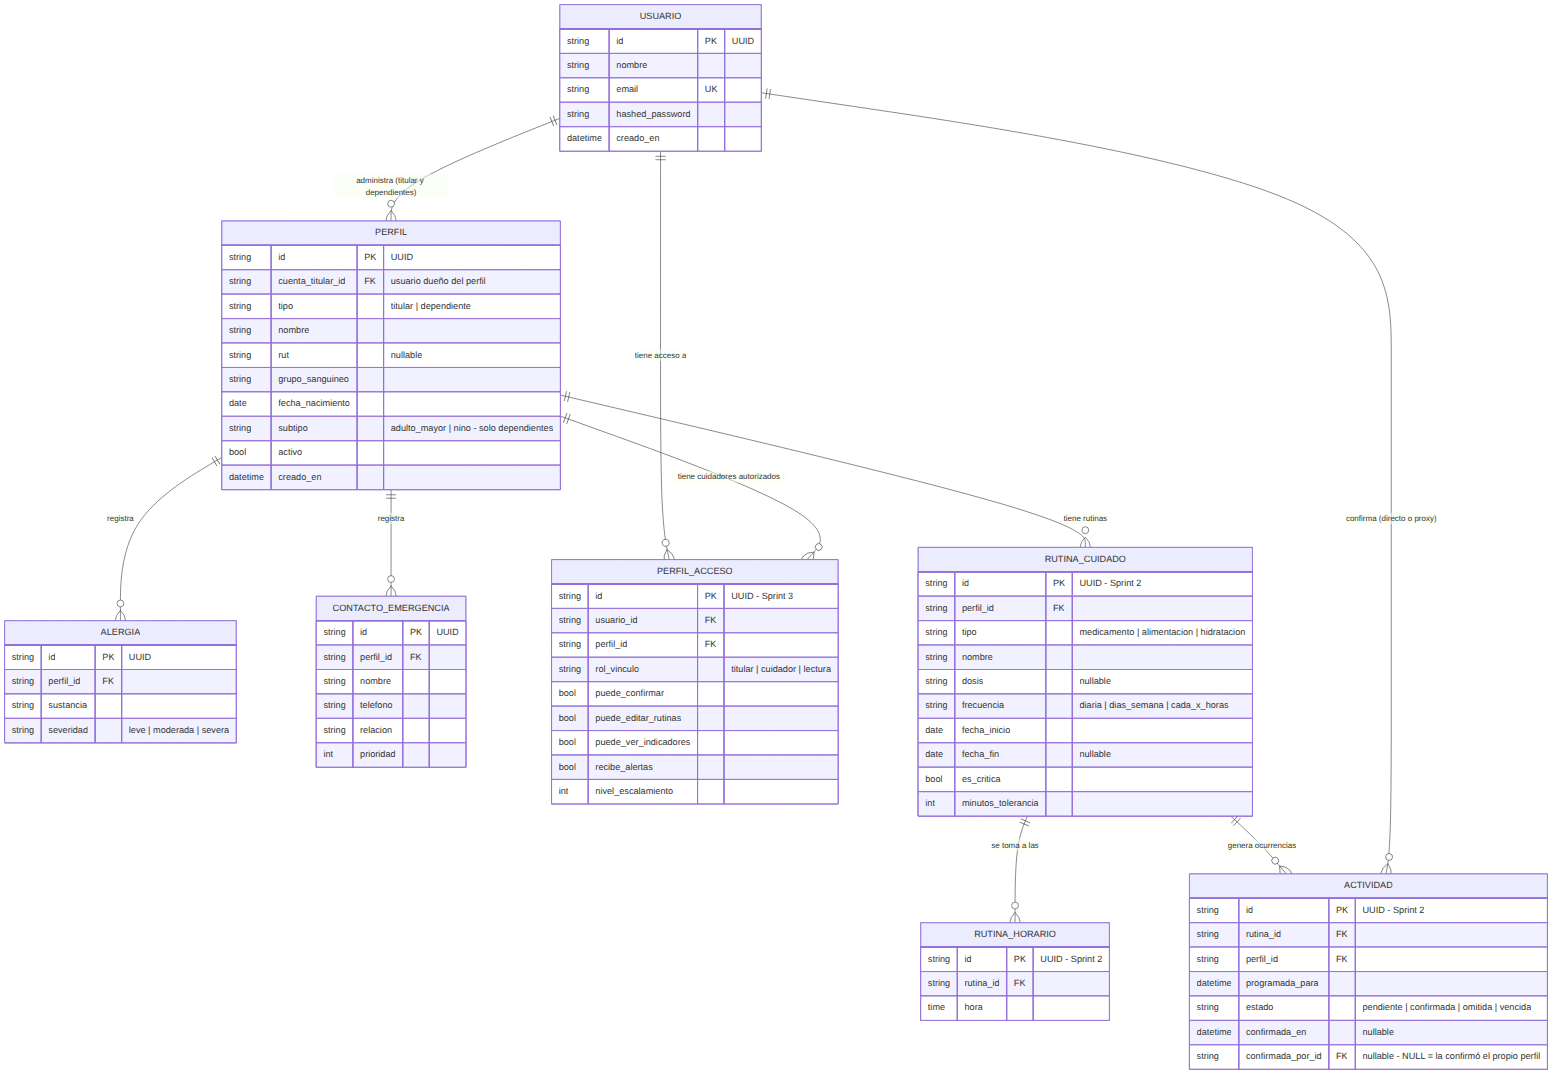
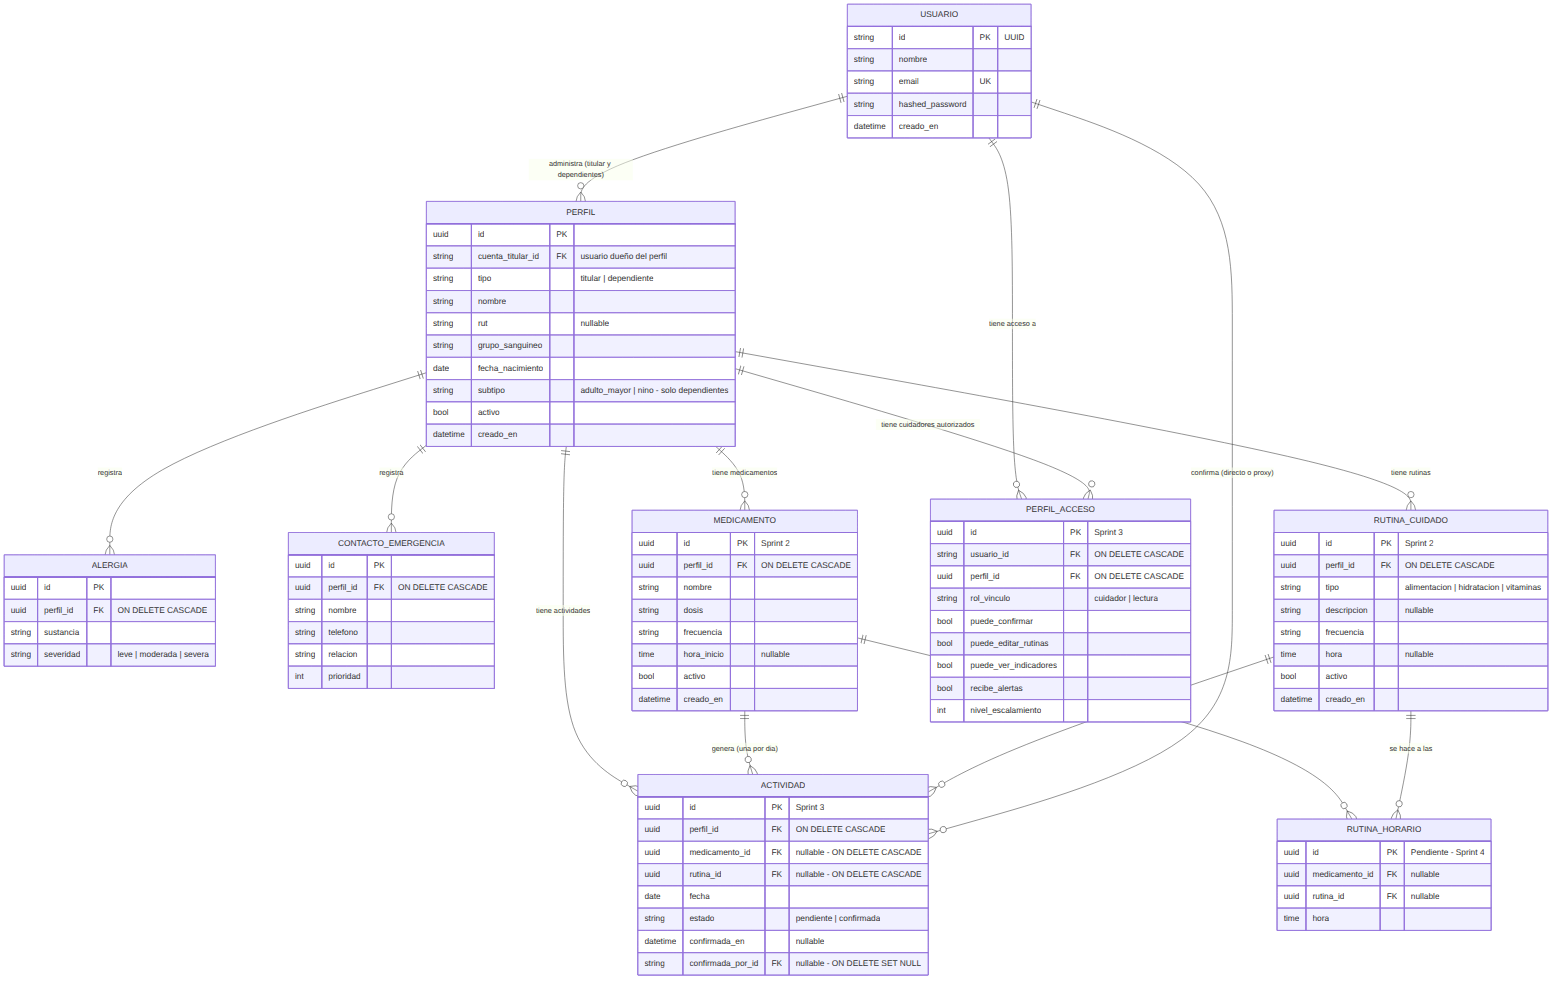
docs: actualiza modelo de datos y diagrama ER (Sprint 3)

diff --git a/Fase 2/Evidencias Proyecto/Evidencias de sistema/Base de datos/modelo_datos.md b/Fase 2/Evidencias Proyecto/Evidencias de sistema/Base de datos/modelo_datos.md
@@ -1,10 +1,10 @@
 # Modelo de Datos — Perfil Médico+
 
-**Responsable:** Sergio Ocares · **Sprint 1** (S5-S6), actualizado en Sprint 2 (S7-S8)
+**Responsable:** Sergio Ocares · **Sprint 1** (S5-S6), actualizado en Sprint 2 (S7-S8) y Sprint 3 (S9-S10)
 
 ## Diagrama entidad-relación
 
-Las tablas marcadas como "Sprint 1" son las que se implementan en este sprint (ver `Aplicacion/backend/app/models/`). Las demás se muestran para dar contexto de hacia dónde va el modelo completo — se implementan en los sprints indicados, no en este.
+El diagrama refleja lo **realmente construido** hasta el Sprint 3 (ver `Aplicacion/backend/app/models/`). `RUTINA_HORARIO` aparece marcada como pendiente: se muestra para dar contexto de hacia dónde va el modelo, no está implementada.
 
 ```mermaid
 erDiagram
@@ -17,7 +17,7 @@ erDiagram
     }
 
     PERFIL {
-        string id PK "UUID"
+        uuid id PK
         string cuenta_titular_id FK "usuario dueño del perfil"
         string tipo "titular | dependiente"
         string nombre
@@ -30,26 +30,59 @@ erDiagram
     }
 
     ALERGIA {
-        string id PK "UUID"
-        string perfil_id FK
+        uuid id PK
+        uuid perfil_id FK "ON DELETE CASCADE"
         string sustancia
         string severidad "leve | moderada | severa"
     }
 
     CONTACTO_EMERGENCIA {
-        string id PK "UUID"
-        string perfil_id FK
+        uuid id PK
+        uuid perfil_id FK "ON DELETE CASCADE"
         string nombre
         string telefono
         string relacion
         int prioridad
     }
 
+    MEDICAMENTO {
+        uuid id PK "Sprint 2"
+        uuid perfil_id FK "ON DELETE CASCADE"
+        string nombre
+        string dosis
+        string frecuencia
+        time hora_inicio "nullable"
+        bool activo
+        datetime creado_en
+    }
+
+    RUTINA_CUIDADO {
+        uuid id PK "Sprint 2"
+        uuid perfil_id FK "ON DELETE CASCADE"
+        string tipo "alimentacion | hidratacion | vitaminas"
+        string descripcion "nullable"
+        string frecuencia
+        time hora "nullable"
+        bool activo
+        datetime creado_en
+    }
+
+    ACTIVIDAD {
+        uuid id PK "Sprint 3"
+        uuid perfil_id FK "ON DELETE CASCADE"
+        uuid medicamento_id FK "nullable - ON DELETE CASCADE"
+        uuid rutina_id FK "nullable - ON DELETE CASCADE"
+        date fecha
+        string estado "pendiente | confirmada"
+        datetime confirmada_en "nullable"
+        string confirmada_por_id FK "nullable - ON DELETE SET NULL"
+    }
+
     PERFIL_ACCESO {
-        string id PK "UUID - Sprint 3"
-        string usuario_id FK
-        string perfil_id FK
-        string rol_vinculo "titular | cuidador | lectura"
+        uuid id PK "Sprint 3"
+        string usuario_id FK "ON DELETE CASCADE"
+        uuid perfil_id FK "ON DELETE CASCADE"
+        string rol_vinculo "cuidador | lectura"
         bool puede_confirmar
         bool puede_editar_rutinas
         bool puede_ver_indicadores
@@ -57,33 +90,11 @@ erDiagram
         int nivel_escalamiento
     }
 
-    RUTINA_CUIDADO {
-        string id PK "UUID - Sprint 2"
-        string perfil_id FK
-        string tipo "medicamento | alimentacion | hidratacion"
-        string nombre
-        string dosis "nullable"
-        string frecuencia "diaria | dias_semana | cada_x_horas"
-        date fecha_inicio
-        date fecha_fin "nullable"
-        bool es_critica
-        int minutos_tolerancia
-    }
-
     RUTINA_HORARIO {
-        string id PK "UUID - Sprint 3 (diferida)"
-        string rutina_id FK
+        uuid id PK "Pendiente - Sprint 4"
+        uuid medicamento_id FK "nullable"
+        uuid rutina_id FK "nullable"
         time hora
-    }
-
-    ACTIVIDAD {
-        string id PK "UUID - Sprint 3 (diferida)"
-        string rutina_id FK
-        string perfil_id FK
-        datetime programada_para
-        string estado "pendiente | confirmada | omitida | vencida"
-        datetime confirmada_en "nullable"
-        string confirmada_por_id FK "nullable - NULL = la confirmó el propio perfil"
     }
 
     USUARIO ||--o{ PERFIL : "administra (titular y dependientes)"
@@ -91,10 +102,14 @@ erDiagram
     PERFIL ||--o{ PERFIL_ACCESO : "tiene cuidadores autorizados"
     PERFIL ||--o{ ALERGIA : "registra"
     PERFIL ||--o{ CONTACTO_EMERGENCIA : "registra"
+    PERFIL ||--o{ MEDICAMENTO : "tiene medicamentos"
     PERFIL ||--o{ RUTINA_CUIDADO : "tiene rutinas"
-    RUTINA_CUIDADO ||--o{ RUTINA_HORARIO : "se toma a las"
-    RUTINA_CUIDADO ||--o{ ACTIVIDAD : "genera ocurrencias"
+    PERFIL ||--o{ ACTIVIDAD : "tiene actividades"
+    MEDICAMENTO ||--o{ ACTIVIDAD : "genera (una por dia)"
+    RUTINA_CUIDADO ||--o{ ACTIVIDAD : "genera (una por dia)"
     USUARIO ||--o{ ACTIVIDAD : "confirma (directo o proxy)"
+    MEDICAMENTO ||--o{ RUTINA_HORARIO : "se toma a las"
+    RUTINA_CUIDADO ||--o{ RUTINA_HORARIO : "se hace a las"
 ```
 
 ## Decisiones de diseño
@@ -105,11 +120,11 @@ erDiagram
 
 - **Todo cuelga de `PERFIL`, no de `PERFIL_DEPENDIENTE`.** Rutinas, alergias, contactos de emergencia, indicadores y alertas apuntan a `perfil_id`. Así cada módulo se escribe una sola vez y funciona igual para el titular y para un dependiente, en lugar de duplicar la lógica según de quién se trate.
 
-- **`ACTIVIDAD` separada de `RUTINA_CUIDADO`: la decisión más importante del modelo.** La rutina es la *indicación* ("1 comprimido a las 08:00 todos los días"); la actividad es cada *ocurrencia concreta* en una fecha y hora, generada por un job del backend con 24-48 h de anticipación. Es indispensable porque una confirmación que apunta directo a la rutina solo registra lo que sí ocurrió: si no hay fila, no se puede distinguir entre "no se tomó el medicamento" y "nunca se programó esa toma". Y sin poder afirmar que una toma estaba programada y no se confirmó, no existen las alertas escalonadas (HU 10), el % de cumplimiento (HU 13) ni el flujo Monitorear → Alertar del proyecto. Un `UNIQUE (rutina_id, programada_para)` evita ocurrencias duplicadas si el job se ejecuta dos veces.
+- **`ACTIVIDAD` separada de la rutina o el medicamento: la decisión más importante del modelo.** El medicamento o la rutina es la *indicación* ("1 comprimido a las 08:00 todos los días"); la actividad es cada *ocurrencia concreta* en una fecha. Es indispensable porque una confirmación que apunta directo a la rutina solo registra lo que sí ocurrió: si no hay fila, no se puede distinguir entre "no se tomó el medicamento" y "nunca se programó esa toma". Y sin poder afirmar que una toma estaba programada y no se confirmó, no existen las alertas escalonadas (HU 10), el % de cumplimiento (HU 13) ni el flujo Monitorear → Alertar del proyecto. Las restricciones únicas `(medicamento_id, fecha)` y `(rutina_id, fecha)` evitan actividades duplicadas en un mismo día (ver "Decisiones del Sprint 3").
 
 - **Confirmación por proxy sin campo booleano:** en vez de `fue_proxy`, se usa `confirmada_por_id`. Si viene NULL, confirmó el propio perfil desde la interfaz simplificada; si trae un usuario, confirmó un cuidador *y además queda registrado cuál* — información que el booleano perdía y que el historial de cumplimiento necesita.
 
-- **`PERFIL_ACCESO` como tabla intermedia (no un campo simple):** un cuidador puede estar vinculado a más de un perfil, y un perfil puede tener más de un cuidador — es una relación muchos-a-muchos, con permisos configurables por cada vínculo (objetivo específico 3 del 1.5). Incluye `nivel_escalamiento`, que define el orden en que se notifica a los cuidadores cuando una actividad no se confirma.
+- **`PERFIL_ACCESO` como tabla intermedia (no un campo simple):** un cuidador puede estar vinculado a más de un perfil, y un perfil puede tener más de un cuidador — es una relación muchos-a-muchos, con permisos configurables por cada vínculo (objetivo específico 3 del 1.5). Incluye `nivel_escalamiento`, que define el orden en que se notifica a los cuidadores cuando una actividad no se confirma. **El titular no tiene fila en esta tabla:** su acceso sale de `perfil.cuenta_titular_id`, y `rol_vinculo` solo admite `cuidador` o `lectura`. Una restricción única `(usuario_id, perfil_id)` impide vincular dos veces a la misma persona con el mismo perfil.
 
 - **Sin campo `rol` global en `USUARIO`:** ser cuidador no es un atributo de la persona sino del vínculo, y ese vínculo ya vive en `PERFIL_ACCESO`. La misma persona es titular de su cuenta y, al mismo tiempo, cuidadora del perfil de su madre; un campo global obligaría a elegir uno de los dos valores y generaría inconsistencias. Se mantiene el criterio original de no crear una tabla de roles del sistema —sería sobre-ingeniería para el alcance— pero el rol se resuelve por vínculo, no por usuario.
 
@@ -124,23 +139,35 @@ erDiagram
 Durante la construcción de HU 4 (medicamentos y rutinas de cuidado) este sprint, el equipo simplificó el alcance respecto de lo que este documento diseñaba originalmente:
 
 - **Se construyeron `Medicamento` y `RutinaCuidado`** (una tabla por tipo, con `frecuencia` como texto libre y una sola `hora`/`hora_inicio` por registro), **no** `RUTINA_CUIDADO` + `RUTINA_HORARIO` + `ACTIVIDAD` como contemplaba el diseño original.
-- **Se diere a Sprint 3 `RUTINA_HORARIO` y `ACTIVIDAD`**, es decir: todavía no existe una tabla de ocurrencias concretas por fecha, ni un campo de confirmación persistido en el backend. Una rutina con varias tomas al día (ej. "3 veces al día") queda representada como una sola fila, sin horarios individuales.
+- **Se difiere a Sprint 3 `RUTINA_HORARIO` y `ACTIVIDAD`**, es decir: todavía no existe una tabla de ocurrencias concretas por fecha, ni un campo de confirmación persistido en el backend. Una rutina con varias tomas al día (ej. "3 veces al día") queda representada como una sola fila, sin horarios individuales.
 - **Motivo:** cerrar HU 2 y HU 4 completas (datos + API + pruebas) dentro de las dos semanas del sprint. La tabla `ACTIVIDAD` con generación de ocurrencias, confirmación por proxy y los campos de alertas escalonadas es, como dice la sección anterior, "la decisión más importante del modelo" — y precisamente por eso se prefirió dejarla completa para el Sprint 3 en vez de construirla a medias.
 - **Consecuencia para HU 5 (agenda diaria, a cargo de Matías):** la pantalla de agenda puede listar medicamentos y rutinas, pero "confirmar una actividad" no se puede guardar en el backend todavía (no hay dónde guardarlo). Se implementa como un estado solo de la app mientras tanto.
 - **Para el Sprint 3:** cuando se construya `ACTIVIDAD`, debe generarse con un job que cree las ocurrencias de `RUTINA_HORARIO` con 24-48 h de anticipación (tal como se diseñó), y recién ahí HU 5 pasa a confirmar contra un endpoint real, habilitando además HU 10 (alertas escalonadas) y HU 13 (% de cumplimiento).
 
 Esta decisión se tomó sobre la marcha durante el desarrollo; queda documentada acá para que el Product Owner la ratifique formalmente (ver `Checklist_Aceptacion_PO_Sprint2.md`) y para que no se pierda el motivo al llegar al Sprint 3.
 
+## Decisiones del Sprint 3
+
+Migraciones del sprint (cadena de Alembic con una sola cabeza, a cargo de Sergio): `b3c4d5e6f7a8` (tabla `actividad`), `c4d5e6f7a8b9` (índice de titular único), `d5e6f7a8b9c0` (tabla `perfil_acceso`) y `e6f7a8b9c0d1` (borrado en cascada).
+
+- **`ACTIVIDAD` apunta a su origen con dos llaves opcionales, no con una referencia genérica.** El diseño original tenía una sola `rutina_id`; al separar `Medicamento` y `RutinaCuidado` en el Sprint 2, la actividad necesita apuntar a cualquiera de las dos. Se eligió `medicamento_id` y `rutina_id`, con una restricción `CHECK` que exige que **exactamente una** tenga valor. La alternativa (un par genérico `origen_tipo` + `origen_id`) obligaría al código a limpiar actividades huérfanas; con llaves reales, la base de datos garantiza la integridad y borra las actividades junto con su medicamento o rutina.
+- **Una actividad por origen y por día.** Las restricciones únicas `(medicamento_id, fecha)` y `(rutina_id, fecha)` evitan duplicados. Como cada una tiene la otra columna vacía, PostgreSQL no las confunde. El índice `(perfil_id, fecha)` acelera la consulta de la agenda. El estado admite `pendiente` y `confirmada`; `omitida` y `vencida` llegan con las alertas del Sprint 4.
+- **Las actividades de un día se generan al consultar la agenda**, sin job programado: al pedir la agenda de una fecha, el backend crea las que falten. El job se necesitará en el Sprint 4 para las notificaciones. Con esto, el diseño original de generar ocurrencias con 24-48 h de anticipación se pospone al Sprint 4.
+- **Un solo perfil titular por cuenta, garantizado por la base de datos.** Índice único parcial sobre `perfil(cuenta_titular_id)` con la condición `tipo = 'titular'`. Los dependientes no tienen límite.
+- **Borrado en cascada desde `perfil`.** Las llaves de `alergia`, `contacto_emergencia`, `medicamento`, `rutina_cuidado`, `actividad` y `perfil_acceso` hacia `perfil` usan `ON DELETE CASCADE`, de modo que borrar un perfil deja todo limpio. `perfil_acceso` también se borra en cascada si se elimina el usuario. La llave `actividad.confirmada_por_id` usa `ON DELETE SET NULL`: si se borra a quien confirmó, la actividad se conserva. El borrado explícito en el código del backend se mantiene como segunda protección, porque las pruebas con SQLite no validan llaves foráneas.
+- **Columnas de alertas incluidas desde ahora.** `recibe_alertas` y `nivel_escalamiento` de `perfil_acceso` no se usan hasta el Sprint 4, pero se crearon ahora para evitar otra migración.
+
 ## Estado por sprint
 
 | Tabla | Sprint | Estado |
 |---|---|---|
 | `usuarios` | Sprint 1 | Implementada — columna `rol` ya eliminada (migración `39dd888f4030`, Sprint 2) |
-| `perfiles` | Sprint 1 (arrastre, cerrada en Sprint 2) | Implementada (HU 2) |
-| `alergias`, `contactos_emergencia` | Sprint 1 (arrastre, cerrada en Sprint 2) | Implementada (HU 2) |
-| `medicamento`, `rutina_cuidado` | Sprint 2 | Implementada (HU 4) — alcance simplificado, ver sección anterior |
-| `rutina_horario`, `actividad` | Diferida de Sprint 2 a Sprint 3 | Pendiente |
-| `perfil_acceso` | Sprint 3 | Pendiente |
+| `perfil` | Sprint 1 (arrastre, cerrada en Sprint 2) | Implementada (HU 2) — índice de titular único en Sprint 3 (HU 6) |
+| `alergia`, `contacto_emergencia` | Sprint 1 (arrastre, cerrada en Sprint 2) | Implementada (HU 2) — borrado en cascada en Sprint 3 |
+| `medicamento`, `rutina_cuidado` | Sprint 2 | Implementada (HU 4) — alcance simplificado, ver sección anterior; borrado en cascada en Sprint 3 |
+| `actividad` | Diferida de Sprint 2 a Sprint 3 | **Implementada (Sprint 3)** — cierre de HU 5 |
+| `perfil_acceso` | Sprint 3 | **Implementada (Sprint 3)** — HU 7 |
+| `rutina_horario` | Diferida | Pendiente (Sprint 4) |
 
 ## Cambios respecto de la versión anterior del documento
 
@@ -150,3 +177,4 @@ Esta decisión se tomó sobre la marcha durante el desarrollo; queda documentada
 4. Se eliminó el campo `rol` de `USUARIO`, reemplazado por `rol_vinculo` en `PERFIL_ACCESO`.
 5. Menores: permisos como booleanos en vez de JSON, horarios en tabla propia en vez de string cron, `confirmada_por_id` en vez de `fue_proxy`.
 6. **(Sprint 2)** Se actualiza el estado de implementación de `perfiles`/`alergias`/`contactos_emergencia` (HU 2, ya implementadas) y de `medicamento`/`rutina_cuidado` (HU 4, implementadas con alcance simplificado); se documenta la decisión de diferir `RUTINA_HORARIO` y `ACTIVIDAD` a Sprint 3.
+7. **(Sprint 3)** `actividad` y `perfil_acceso` pasan a "Implementada". `ACTIVIDAD` se construyó con dos llaves opcionales (`medicamento_id` o `rutina_id`) en vez de la `rutina_id` única del diseño original. Se agregan el índice de titular único y el borrado en cascada desde `perfil`. El diagrama se actualiza con `MEDICAMENTO` y `RUTINA_CUIDADO` tal como se construyeron en el Sprint 2, y `RUTINA_HORARIO` queda marcada como pendiente (Sprint 4).
